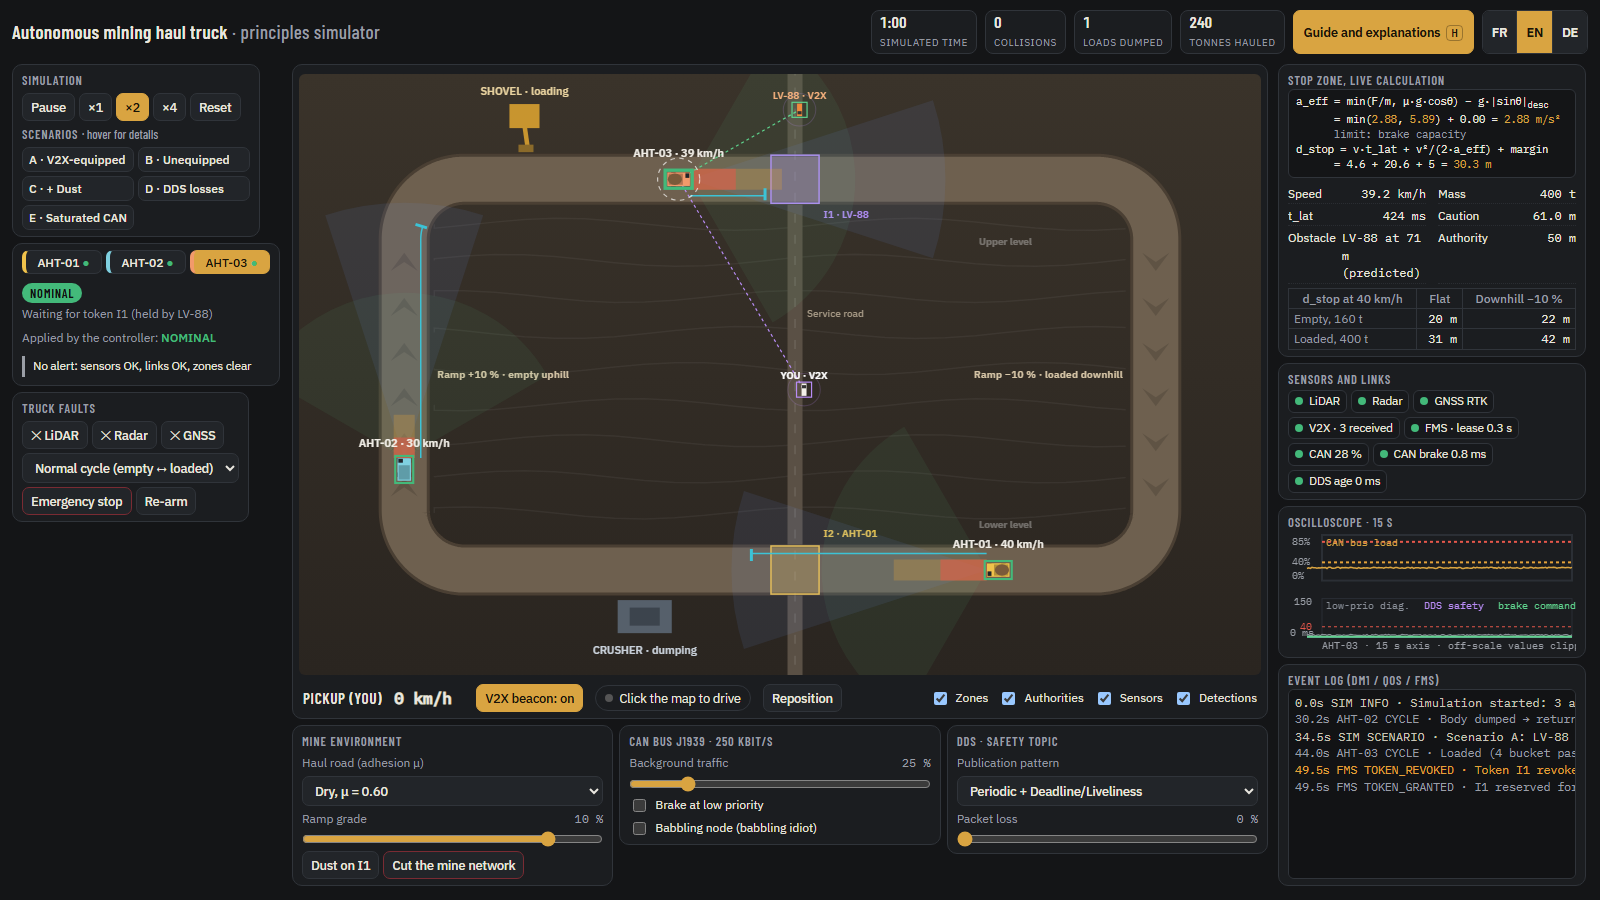
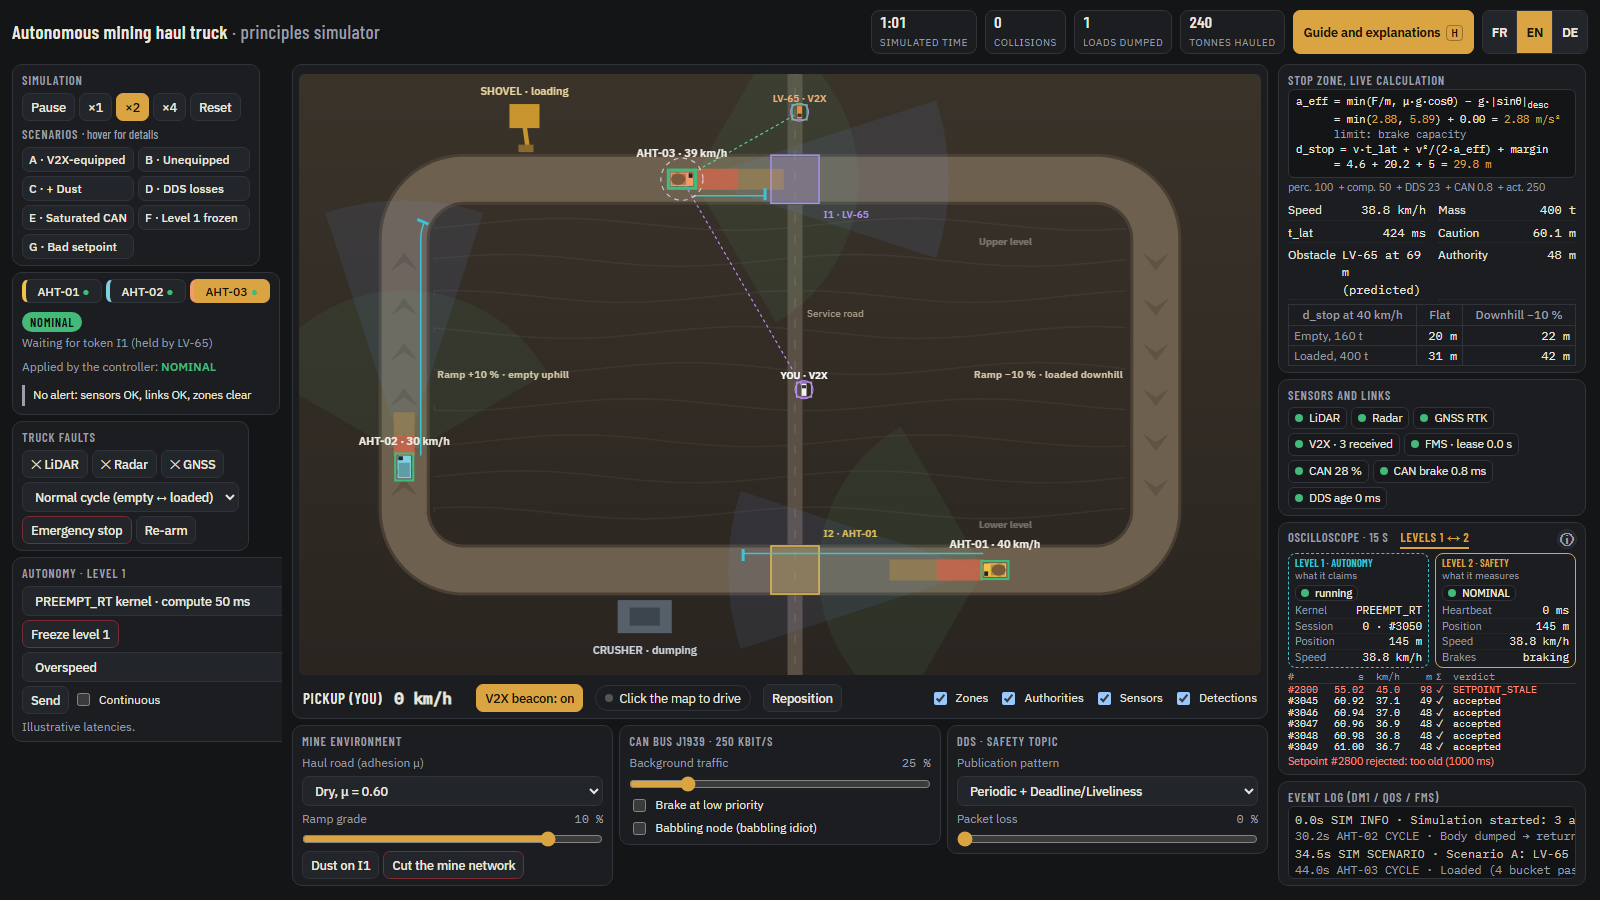
docs(002): T-22 screenshot with the levels 1 and 2 view open
docs/capture.png regenerated (English, 1600x900); brake-state labels shortened after
seeing the real fonts; README alt text updated.

diff --git a/index.html b/index.html
@@ -985,7 +985,7 @@ const MSG = {
   'l12.hVerdict': ['verdict', 'verdict', 'Urteil'], 'l12.ok': ['accepté', 'accepted', 'akzeptiert'],
   'l12.noEx': ['Aucun échange pour le moment.', 'No exchange yet.', 'Noch kein Austausch.'],
   'l12.release': ['Reprise dans', 'Resume in', 'Weiter in'],
-  'l12.brRel': ['relâchés', 'released', 'gelöst'], 'l12.brSvc': ['freinage de service', 'service braking', 'Betriebsbremsung'], 'l12.brFull': ['freinage maximal', 'full braking', 'Vollbremsung'], 'l12.brWd': ['watchdog ECU frein', 'brake ECU watchdog', 'Brems-ECU-Watchdog'],
+  'l12.brRel': ['relâchés', 'released', 'gelöst'], 'l12.brSvc': ['freinage', 'braking', 'bremst'], 'l12.brFull': ['freinage max', 'full braking', 'Vollbremsung'], 'l12.brWd': ['watchdog ECU', 'ECU watchdog', 'ECU-Watchdog'],
   'l1.freeze': ['Niveau 1 figé : plus aucune consigne émise', 'Level 1 frozen: no more setpoints sent', 'Ebene 1 eingefroren: keine Sollwerte mehr gesendet'],
   'l1.restart': ['Niveau 1 redémarré : nouvelle session {n}', 'Level 1 restarted: new session {n}', 'Ebene 1 neu gestartet: neue Sitzung {n}'],
   'l2.overspeed': ['Consigne n° {seq} rejetée : {v} km/h demandés, limite ici {lim} km/h', 'Setpoint #{seq} rejected: {v} km/h demanded, limit here {lim} km/h', 'Sollwert Nr. {seq} abgelehnt: {v} km/h gefordert, Limit hier {lim} km/h'],

diff --git a/specs/002-two-level-architecture/tasks.md b/specs/002-two-level-architecture/tasks.md
@@ -31,7 +31,7 @@ New test files: `tests/niveaux.spec.mjs` (Part 1), `tests/latence.spec.mjs` (Par
 - [x] T-19 — Runtime translations (S20, AC-17). `tests/traductions-execution.spec.mjs`: F, G (each defect, repeat mode), restart, and both profiles replayed in FR, EN and DE with the interface redrawn every simulated second; `i18nMissing` stays empty. Depends on: T-16, T-17. Done when: green; breakage: one new `MSG` key misspelled at its call → reported with the key (evidence row).
 - [x] T-20 — Guide text (S19, AC-19, guide half). "Prise en main" (the new card and tab), "Visite guidée" (F and G), "Choix de modélisation" (level 1 proposes, level 2 disposes; why this stop is not latched while the emergency is; the profile as a worst case), "Limites et sources" (the six limitations of plan section 10), in French, English and German. Depends on: T-18. Done when: static and runtime translation checks green; the disclaimer and analytics checks green; a reading against plan section 10 finds every limitation.
 - [x] T-21 — README (S19, AC-19, README half). "What you can explore" (two levels, kernel profile), "Built-in scenarios" (F, G), "Modelling choices", "Limitations", "Code structure" (level 1 → level 2 link in modules 2 and 3), British English. Depends on: T-20. Done when: the disclaimer and AC-18 checks green; the tables match the page.
-- [ ] T-22 — Screenshot (AC-19). `docs/capture.png` regenerated: English interface, 1600×900, a moment that shows the new card and the "Levels 1 ↔ 2" pane; README alt text updated. Depends on: T-21. Done when: the image is committed and the owner is asked for the visual check of the layout (plan approval, point 3).
+- [x] T-22 — Screenshot (AC-19). `docs/capture.png` regenerated: English interface, 1600×900, a moment that shows the new card and the "Levels 1 ↔ 2" pane; README alt text updated. Depends on: T-21. Done when: the image is committed and the owner is asked for the visual check of the layout (plan approval, point 3). *Done 2026-11-15*: `docs/capture.png` (1600×900, English, Google Fonts loaded as on the live page): scenario A at 1:01 (pickup holding I1, AHT-03 waiting for its token), the Levels 1 ↔ 2 tab open on AHT-03 with level 1 and level 2 side by side and one stale setpoint (`SETPOINT_STALE`, `#2800`) still listed after five accepted ones, with its reason. Looking at it with the real fonts showed the level 2 block's brake state ("service braking") touching its border, so the brake-state labels were shortened (`braking`, `full braking`, `ECU watchdog`; French `freinage`, `freinage max`, `watchdog ECU`). README alt text updated. Layout margin in the capture: left column ends at 741 px, right column log card 90 px high at the bottom of the screen.
 - [ ] T-23 — Full suite, determinism, CI, delivery checklist (AC-1, AC-20, AC-21). `compare-traces` against `main` one last time (identical with RT); `npx playwright test --repeat-each=10` on the new test files; full `npm test` green locally; branch pushed (asked first) and `Checks` green on Node 22 and Node 24 with the duration noted; every check listed in the Evidence table with its proof; acceptance criteria ticked with their evidence pointer. Depends on: T-22. Done when: all of the above recorded below. The spec stays APPROVED until the merge (rule 8: pull request and merge only on the owner's request).
 - [ ] T-24 — Retrospective (CLAUDE.md rule 9): self-critique and "rapport d'étonnement" in `docs/continuous-improvement.md`, each finding with an action (owner + trigger). Depends on: T-23.
 

diff --git a/README.md b/README.md
@@ -6,7 +6,7 @@ It is a teaching proof of concept. The physics is simplified but consistent: eve
 
 **Live demo:** [bretzelcoder.github.io/aht-safety-poc](https://bretzelcoder.github.io/aht-safety-poc/) ([English](https://bretzelcoder.github.io/aht-safety-poc/?lang=en), [Deutsch](https://bretzelcoder.github.io/aht-safety-poc/?lang=de))
 
-![Simulator screenshot in English: three autonomous haul trucks on a haul loop, a V2X-equipped light vehicle holding intersection I1 and truck AHT-03 waiting for its token, with the FR / EN / DE language switch in the header](docs/capture.png)
+![Simulator screenshot in English: three autonomous haul trucks on a haul loop, a V2X-equipped light vehicle holding intersection I1 and truck AHT-03 waiting for its token. The Levels 1 ↔ 2 view is open: level 1 (what it claims) and level 2 (what it measures) side by side, and the list of setpoints with one stale setpoint rejected. The FR / EN / DE language switch is in the header](docs/capture.png)
 
 > The user interface is available in French (default), English and German. Switch with the **FR / EN / DE** buttons in the header or with `?lang=en` / `?lang=de` in the URL; the choice is remembered in the browser. Technical terms, supervisor states, fault codes, DDS QoS names and standard references stay unchanged in every language. An in-app guide (button **Guide and explanations** or key **H**) explains every panel.
 
